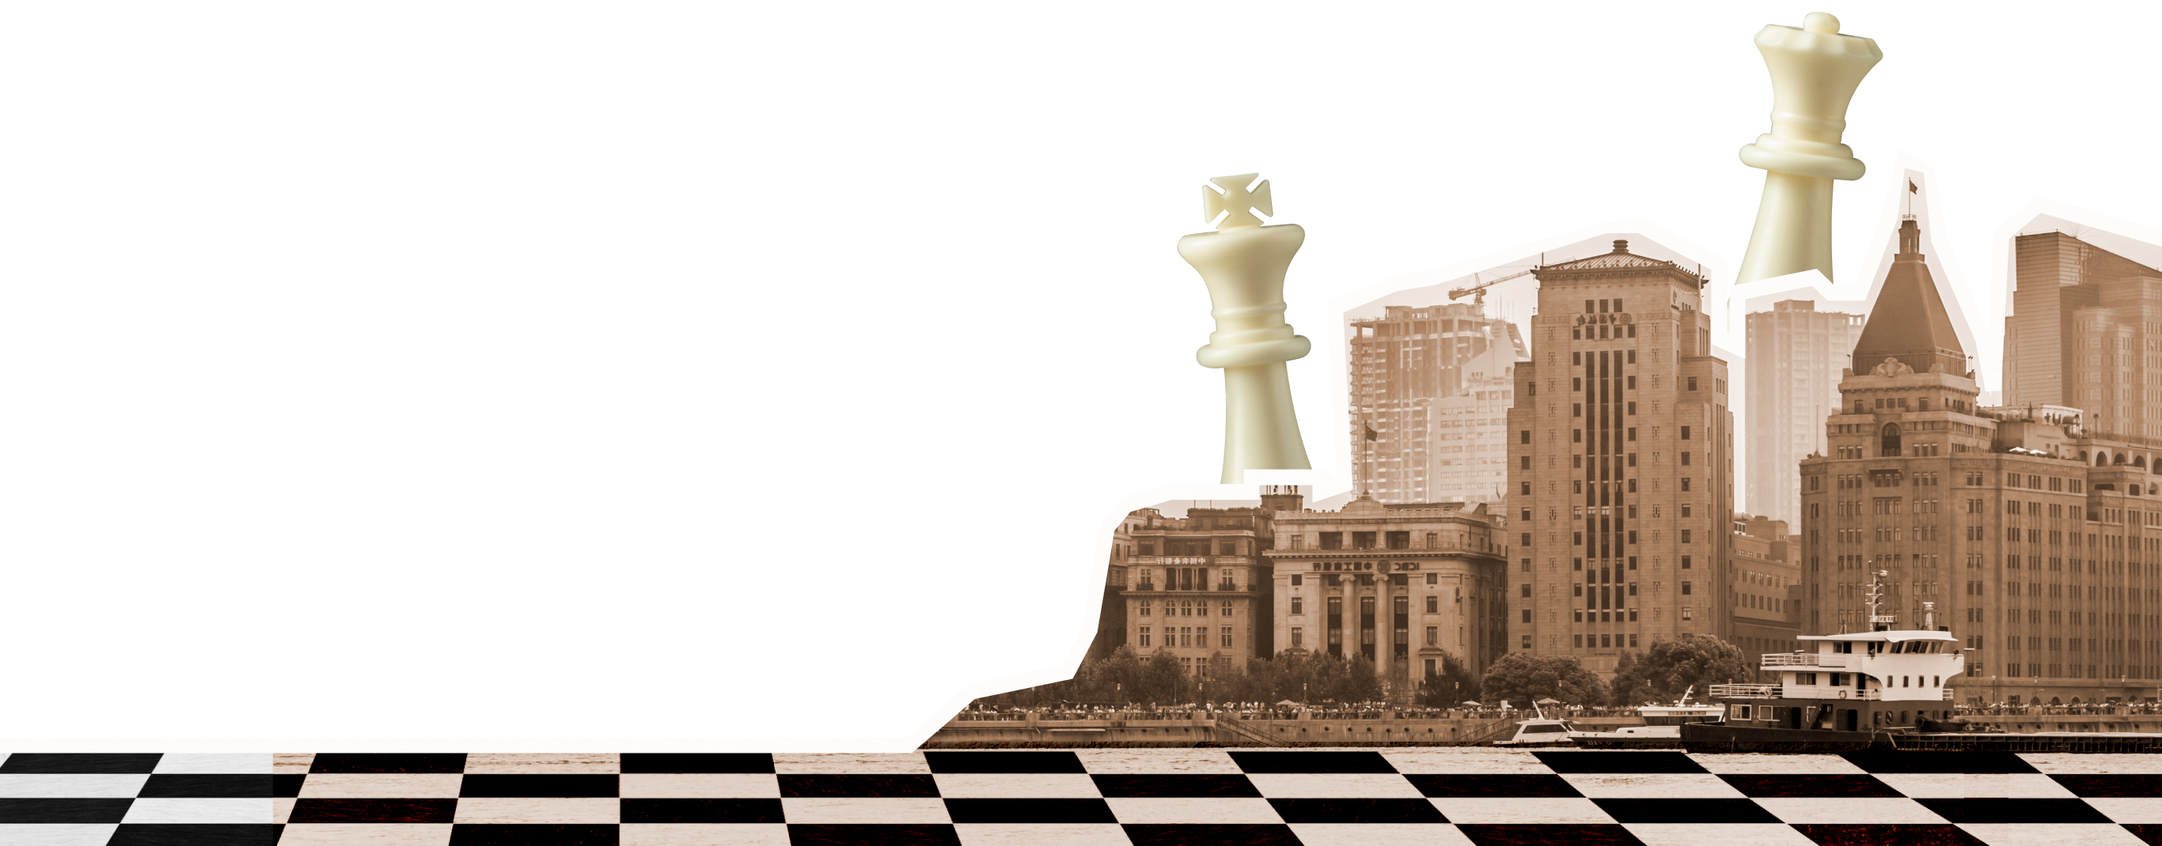
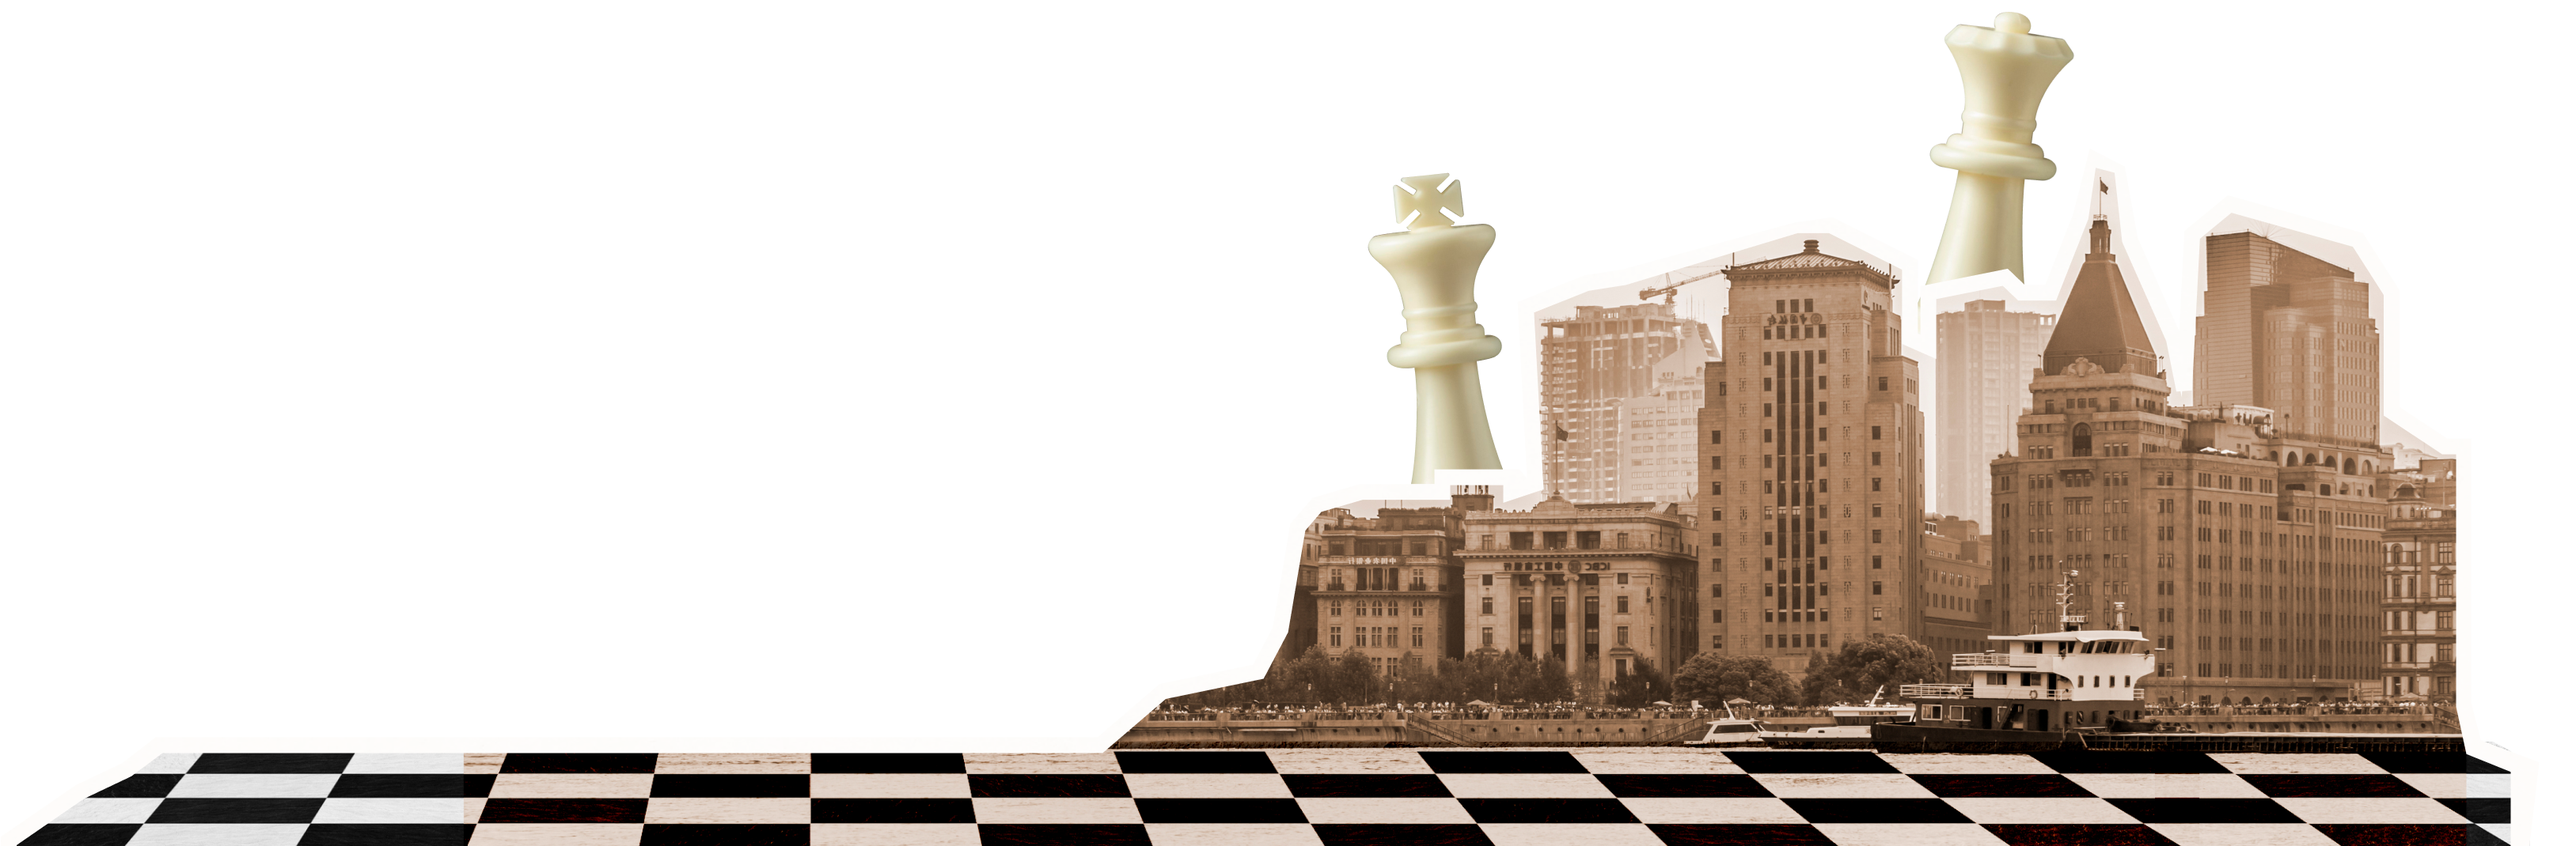
upd header

Changed region(s): [[0.0, 0.0, 1.0, 1.0]]

diff --git a/index.html b/index.html
@@ -21,10 +21,6 @@
   </head>
   <body class="page">
     <header class="header">
-      <!-- <img src="./images/headerCity.png" alt="Изображение города" class="header__city"> -->
-      <div class="header__city">
-        <img src="./images/headerCity.png" alt="Изображение города" />
-      </div>
       <img
         src="./images/headerCircleWithText.png"
         alt="Вращающийся круг с текстом внутри"
@@ -35,7 +31,6 @@
         alt="Текстура фона"
         class="header__texture"
       />
-
       <img
         src="./images/chessLittle.svg"
         alt="Текстура фона"
@@ -46,13 +41,11 @@
         alt="Текстура фона"
         class="header__chess header__chess_big"
       />
-
       <div class="header__head">
         <a href="/" class="header__logo">
           <img src="./images/logo.svg" alt="Логотип турнира" />
         </a>
       </div>
-
       <div class="header__main">
         <div class="header__text-block">
           <h1 class="header__title">
@@ -65,14 +58,17 @@
             васюкинского турнира по шахматам
           </p>
           <div class="header__buttons">
-            <button class="page__button-primary">
+            <a href="#" class="page__button-primary">
               Поддержать шахматную мысль
-            </button>
-            <button class="page__button-secondary">
+            </a>
+            <a href="#" class="page__button-secondary">
               Подробнее о&nbsp;турнире
-            </button>
+            </a>
           </div>
         </div>
+      </div>
+      <div class="header__city">
+        <img src="./images/headerCity.png" alt="Изображение города" />
       </div>
     </header>
 

diff --git a/blocks/header/__buttons/header__buttons.css b/blocks/header/__buttons/header__buttons.css
@@ -5,7 +5,11 @@
     gap: 16px;
 }
 
-.header__buttons button {
+.header__buttons a {
+    display: flex;
+    justify-content: center;
+    text-decoration: none;
+    text-align: center;
     width: 100%;
     height: 72px;
     padding: 10px 49px;
@@ -18,27 +22,27 @@
     box-sizing: border-box;
 }
 
-.header__buttons button:nth-of-type(1n) {
+.header__buttons a:nth-of-type(1n) {
     background-color: rgba(31, 31, 31, 1);
     color: rgba(255, 255, 255, 1);
     border: 2px solid rgba(31, 31, 31, 1);
     transition: all 0.3s ease;
 }
 
-.header__buttons button:nth-of-type(1n):hover {
+.header__buttons a:nth-of-type(1n):hover {
     background-color: rgba(251, 206, 81, 1);
     color: rgba(31, 31, 31, 1);
     border: 2px solid rgba(251, 206, 81, 1);
 }
 
-.header__buttons button:nth-of-type(2n) {
+.header__buttons a:nth-of-type(2n) {
     background-color: transparent;
     color: rgba(31, 31, 31, 1);
     border: 2px solid rgba(31, 31, 31, 1);
     transition: all 0.3s ease;
 }
 
-.header__buttons button:nth-of-type(2n):hover {
+.header__buttons a:nth-of-type(2n):hover {
     background-color: rgba(31, 31, 31, 1);
     color: rgba(255, 255, 255, 1);
     border: 2px solid rgba(31, 31, 31, 1);
@@ -48,8 +52,8 @@
     .header__buttons {
         flex-direction: column;
     }
-    .header__buttons button {
+    .header__buttons a {
         height: 47px;
-        padding: 10px 34px;
+        padding: 10px 0;
     }
 }

diff --git a/blocks/header/__city/header__city.css b/blocks/header/__city/header__city.css
@@ -3,38 +3,46 @@
     bottom: 0;
     right: 0;
     z-index: 2;
-    /* max-height: 530px; */
     top: 165px;
     width: 100%;
+    display: flex;
 }
 
 .header__city img {
     object-fit: cover;
     width: 100%;
     height: 100%;
+    max-width: 1603px;
+    margin: 0 auto;
 }
 
 @media screen and (min-width:1440px) {
     .header__city {
         top: auto;
     }
+    .header__city img {
+        padding-right: 23.5px;
+    }
 }
 
-@media screen and (max-width:600px) {
+@media screen and (max-width:1440px) {
+    .header__city img {
+        transform: scale(1.01) translateY(-5px);
+    }
+}
+
+@media screen and (max-width:1024px) {
     .header__city {
-        right: 0;
-        left: 0;
-        top: auto;
-        height: 300px;
-    }
-    .header__city img {
-        width: auto;
-        transform: translateX(-20%);
-    }
-}
+        position: relative;
+        top: 0;
+        overflow: visible !important;
 
-@media screen and (max-width:400px) {
+    }
     .header__city img {
-        transform: translateX(-47%);
+        height: 294px;
+        width: 100%;
+        object-fit: cover;
+        object-position: 79.5% 0; 
+        margin-top: 15px;
     }
 }

diff --git a/blocks/header/header.css b/blocks/header/header.css
@@ -9,6 +9,9 @@
 
 @media screen and (max-width:768px) {
     .header {
-        min-height: 812px;
+        /* min-height: 812px; */
+        display: flex;
+        flex-direction: column;
+        min-height: 0;
     }
 }

diff --git a/blocks/grid/__title/grid__title.css b/blocks/grid/__title/grid__title.css
@@ -31,3 +31,10 @@
         padding-top: 12px;
     }
 }
+
+@media screen and (max-width:360px) {
+    .grid__title {
+        font-size: 24px;
+        line-height: 26px;
+    }
+}

diff --git a/blocks/table/table.css b/blocks/table/table.css
@@ -1,6 +1,7 @@
 .table {
     display: flex;
     flex-direction: row;
+    justify-content: center;
     gap: 16.5px;
     margin: 36px 72px 103px 45px;
 }

diff --git a/blocks/grid/__slide/grid__slide.css b/blocks/grid/__slide/grid__slide.css
@@ -23,3 +23,9 @@
         gap: 28px;
     }
 }
+
+@media screen and (max-width:360px) {
+    .grid__slide {
+        min-height: 320px;
+    }
+}
